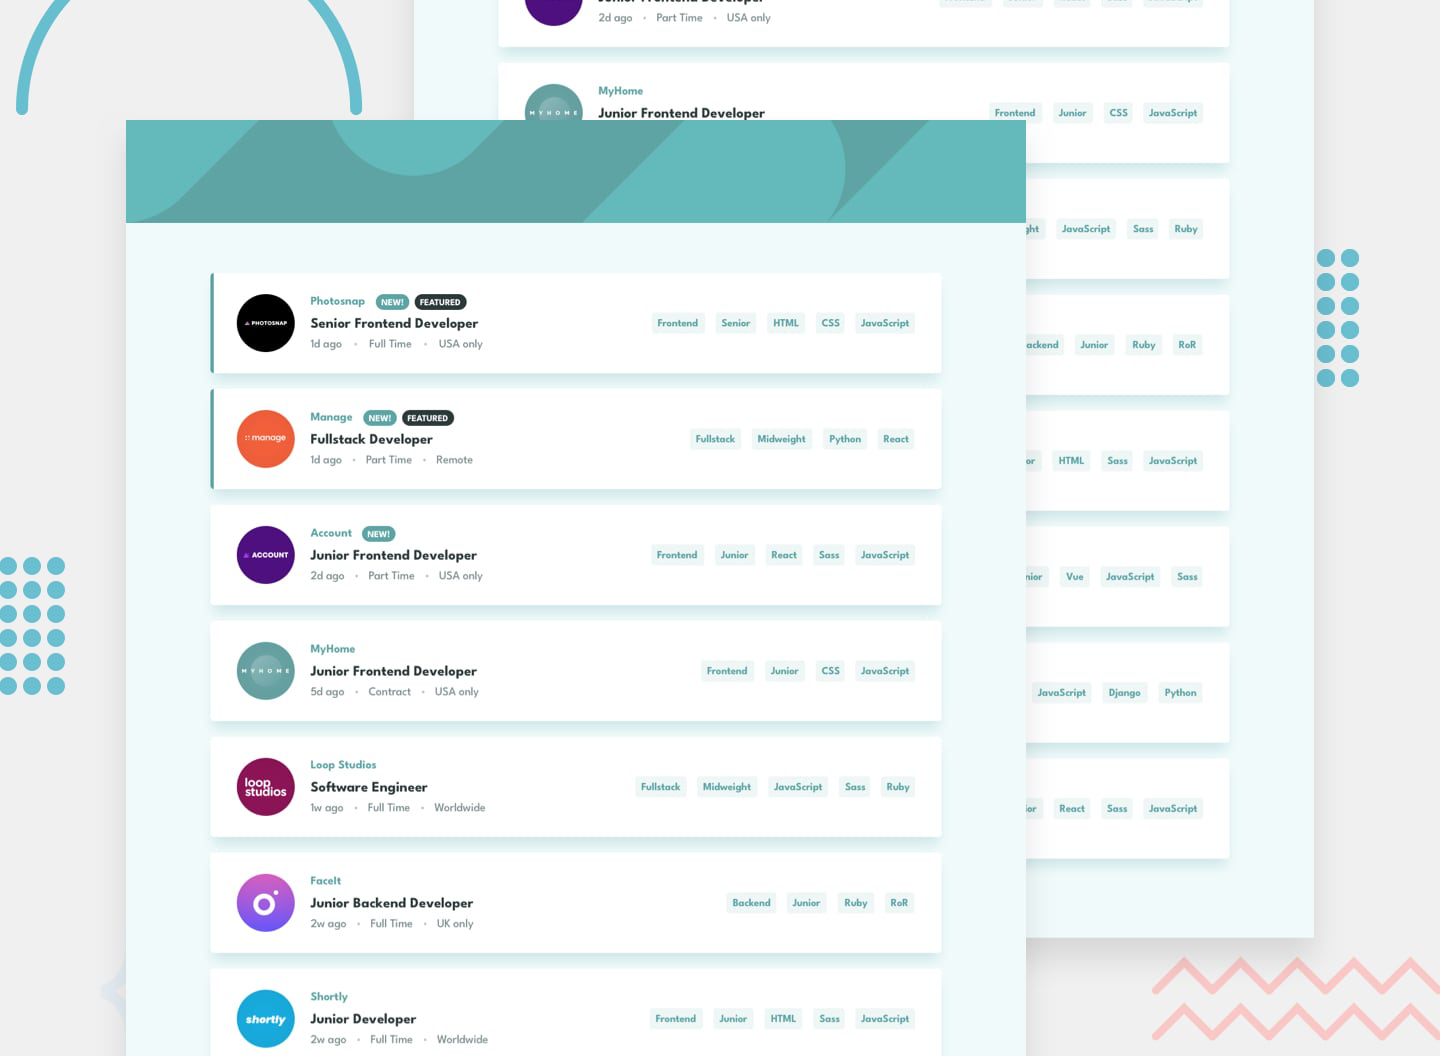
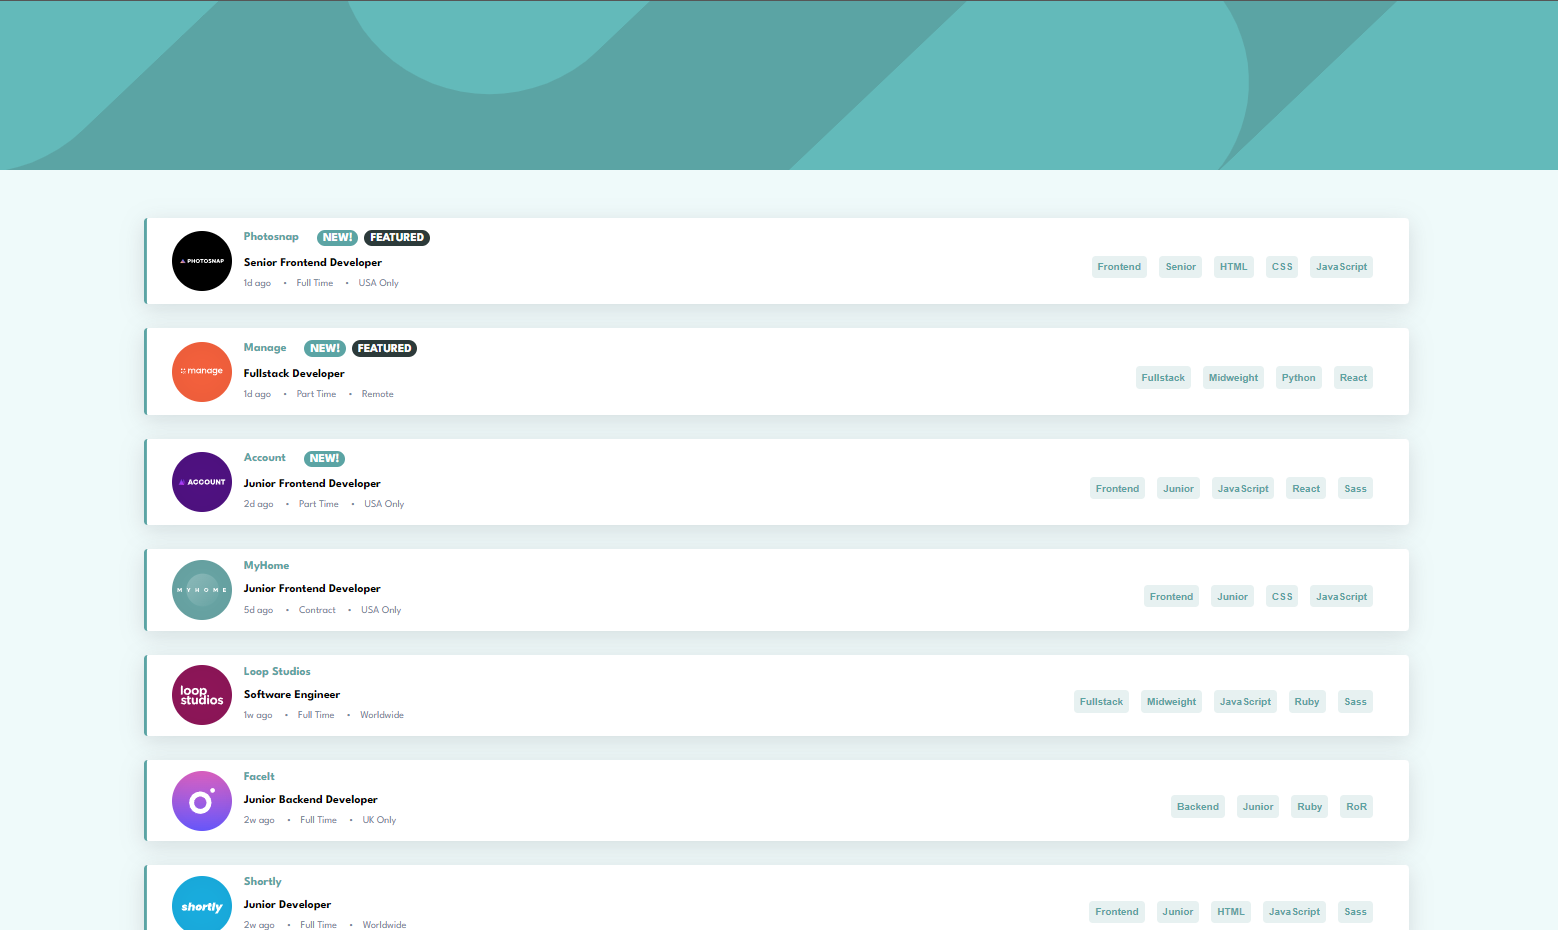
projects section finished

diff --git a/src/components/projects/projects.component.jsx b/src/components/projects/projects.component.jsx
@@ -4,6 +4,9 @@ import ProjectItem from "./project-item/project-item.component";
 import projectImageOne from "../../assets/projects/Screenshot_space.png";
 import projectImageTwo from "../../assets/projects/Screenshot_joblisting.png";
 import projectImageThree from "../../assets/projects/Screenshot_bookmark.png";
+import projectImageFour from "../../assets/projects/Screenshot_loopstudios.png";
+
+import seeAllBubble from "../../assets/projects/see-all-bubble-blue.png";
 
 const Projects = () => {
   const projects = [
@@ -31,6 +34,14 @@ const Projects = () => {
       description:
         "Lorem ipsum dolor sit amet consectetur adipisicing elit. Esse ipsa tempore non saepe ad sequi eius quis in quisquam cum at unde animi nam, labore sed debitis velit dolore aliquid!",
     },
+    {
+      imageSrc: projectImageFour,
+      siteUrl: "https://fahrgast.github.io/Loopstudios/",
+      repository: "https://github.com/Fahrgast/Loopstudios",
+      title: "Loopstudious Landing Page",
+      description:
+        "Lorem ipsum dolor sit amet consectetur adipisicing elit. Esse ipsa tempore non saepe ad sequi eius quis in quisquam cum at unde animi nam, labore sed debitis velit dolore aliquid!",
+    },
   ];
 
   return (
@@ -41,7 +52,17 @@ const Projects = () => {
           <ProjectItem data={project} key={iteration} />
         ))}
       </div>
-      <button>Load more all Projects Or all</button>
+      <div className="see-all-button">
+        <img src={seeAllBubble} className="see-all-bubble" alt="background" />
+        <a
+          href="https://github.com/Fahrgast"
+          className="see-all-link"
+          target="_blank"
+          rel="noreferrer noopener"
+        >
+          See all Projects
+        </a>
+      </div>
     </div>
   );
 };

diff --git a/src/components/projects/projects.styles.scss b/src/components/projects/projects.styles.scss
@@ -1,11 +1,53 @@
+@use "../../utils/index" as utils;
+
 .projects-container{
     width: 80%;
     margin: auto;
     margin-top: 3rem;
-
-
+    margin-bottom: 10rem;
+    
     .project-container{
         display: grid;
-       
+        
+        @include utils.breakpoint(xLarge){
+            grid-template-columns: 1fr 1fr;
+            gap: 2rem;
+        }
+    }
+
+    .see-all-button{
+        display: flex;
+        flex-direction: column;
+        align-items: center;
+        justify-content: center;
+        position: relative;
+
+        .see-all-bubble{
+            width: 75%;
+            margin-left: 1rem;
+            filter: drop-shadow( 10px 10px 4px rgba(0, 0, 0, 0.25));
+
+            @include utils.breakpoint(medium){
+                margin-left: 2rem;
+                content: url("../../assets/projects/see-all-bubble.png")
+            }
+
+            @include utils.breakpoint(large){
+                width: 60%;
+            }
+
+            @include utils.breakpoint(xLarge){
+                width: 50%;
+            }
+
+            @include utils.breakpoint(gigaLarge){
+                width: 35%;
+            }
+        }
+
+        .see-all-link{
+            position: absolute;
+            font-size: var(--heading-three-fontsize);
+        }
     }
 }

diff --git a/src/components/projects/project-item/project-item.styles.scss b/src/components/projects/project-item/project-item.styles.scss
@@ -1,9 +1,15 @@
 .project-item-container{
     margin-bottom: 1.5rem;
-    padding-bottom: 1.5rem;
     background-color: var(--blue);
     text-align: center;
     padding: 1rem;
+    padding-bottom: 2rem;
+    border-radius: 10px;
+    filter: drop-shadow( 10px 10px 4px rgba(0, 0, 0, 0.25));
+
+    .project-title{
+        color: var(--white);
+    }
 
     .project-buttons{
         display: flex;
@@ -17,7 +23,7 @@
 
             .project-button-bubble{               
                 filter: drop-shadow( 10px 10px 4px rgba(0, 0, 0, 0.25));
-                width: 70%;
+                width: 80%;
             }
 
             .code-bubble{
@@ -28,7 +34,7 @@
             .button-link{
                 position: absolute;
                 top: 30%;
-                left: 40%;
+                left: 32%;
     
                 font-size: var(--heading-four-fontsize);
             }
@@ -44,5 +50,6 @@
     .project-image{
         width: 100%;
         border-radius: 10px;
+        filter: drop-shadow( 5px 5px 4px rgba(0, 0, 0, 0.25));
     }
 }

diff --git a/src/components/projects/project-item/project-item.component.jsx b/src/components/projects/project-item/project-item.component.jsx
@@ -3,10 +3,6 @@ import "./project-item.styles.scss";
 import linkBubble from "../../../assets/shared/navbar/navlink-bubble-green-2.png";
 
 const ProjectItem = ({ data }) => {
-  const handleClick = (destination) => {
-    window.open(destination).focus();
-  };
-
   return (
     <div className="project-item-container">
       <h3 className="project-title">{data.title}</h3>
@@ -16,7 +12,6 @@ const ProjectItem = ({ data }) => {
         <div className="site-button link-button">
           <img
             src={linkBubble}
-            onClick={() => handleClick(data.siteUrl)}
             className="project-button-bubble"
             alt="live site"
           />
@@ -32,7 +27,6 @@ const ProjectItem = ({ data }) => {
         <div className="code-button link-button">
           <img
             src={linkBubble}
-            onClick={() => handleClick(data.siteUrl)}
             className="project-button-bubble code-bubble"
             alt="source code"
           />

diff --git a/src/utils/_breakpoints.scss b/src/utils/_breakpoints.scss
@@ -1,11 +1,13 @@
 $width-medium: 768px;
 $width-large: 992px;
 $width-xLarge: 1400px;
+$width-gigaLarge: 2000px;
 
 :export {
     widthMedium: $width-medium;
     widthLarge: $width-large;
     widthXLarge: $width-xLarge;
+    widthGigaLarge: $width-gigaLarge;
   }
 
 $breakpoints-up: (
@@ -16,6 +18,7 @@ $breakpoints-up: (
     "large": #{$width-large},
     //1400px
     "xLarge": #{$width-xLarge},
+    "gigaLarge": #{$width-gigaLarge}
 );
 
 /* 

diff --git a/src/utils/_fonts.css b/src/utils/_fonts.css
@@ -2,7 +2,7 @@
     --heading-fontsize: clamp(60px, 11vw, 100px);
     --heading-two-fontsize: clamp(25px, 6vw, 50px);
     --heading-three-fontsize: clamp(20px, 4vw, 30px);
-    --heading-four-fontsize: clamp(20px, 3vw, 25px);
+    --heading-four-fontsize: clamp(17px, 3vw, 25px);
     --text-fontsize: clamp(16px, 2vw, 18px);;
 
     --heading-spacing: 5px;
